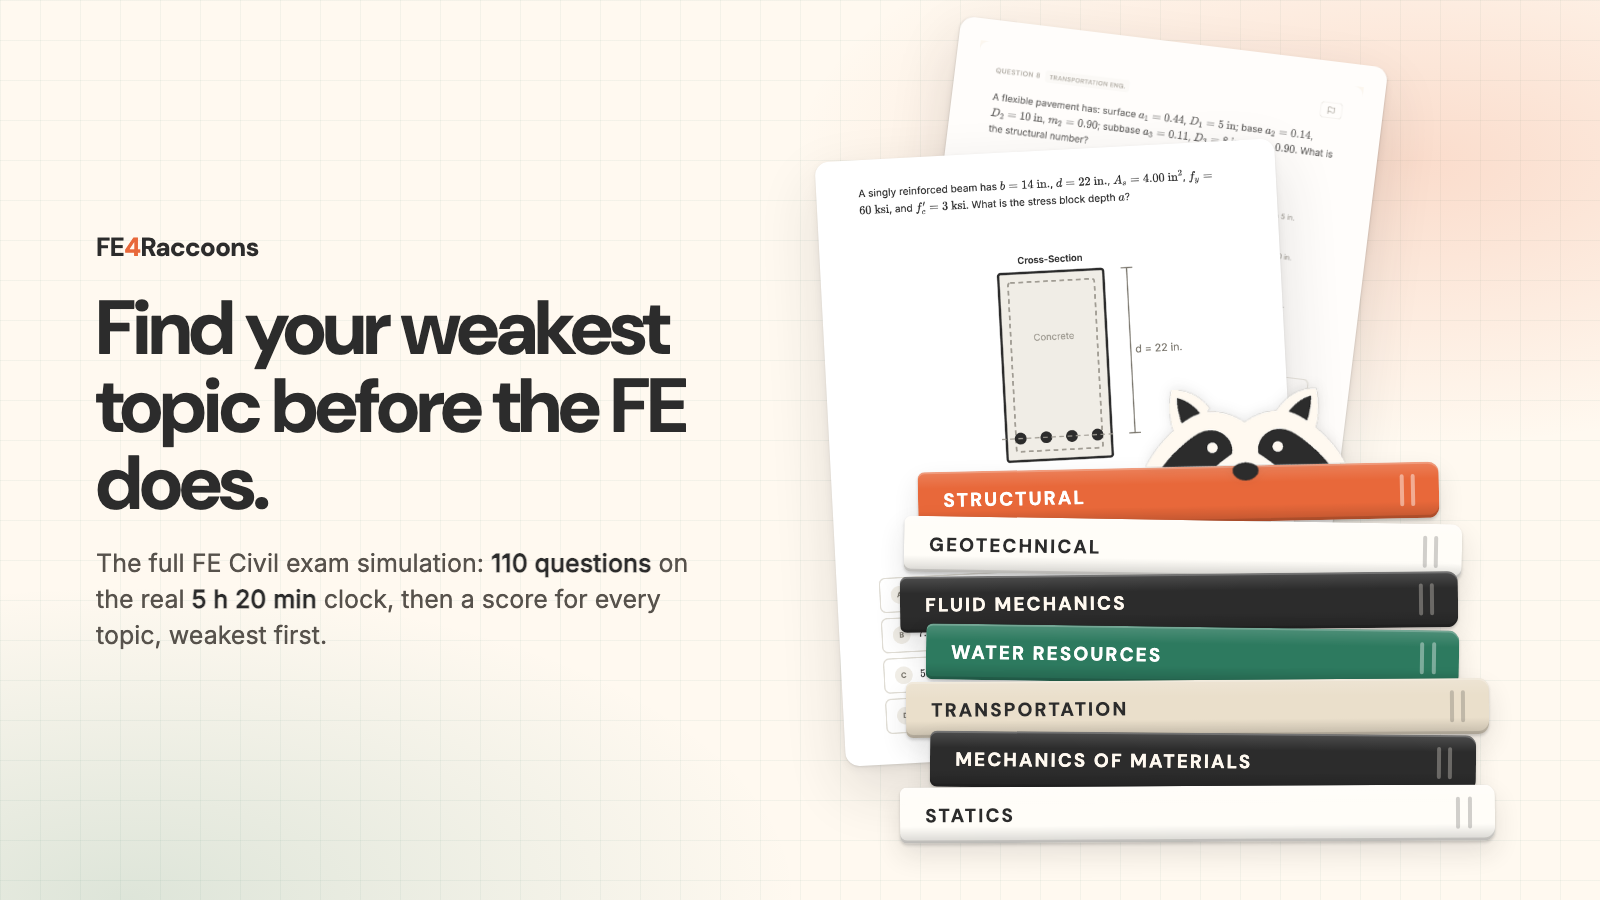
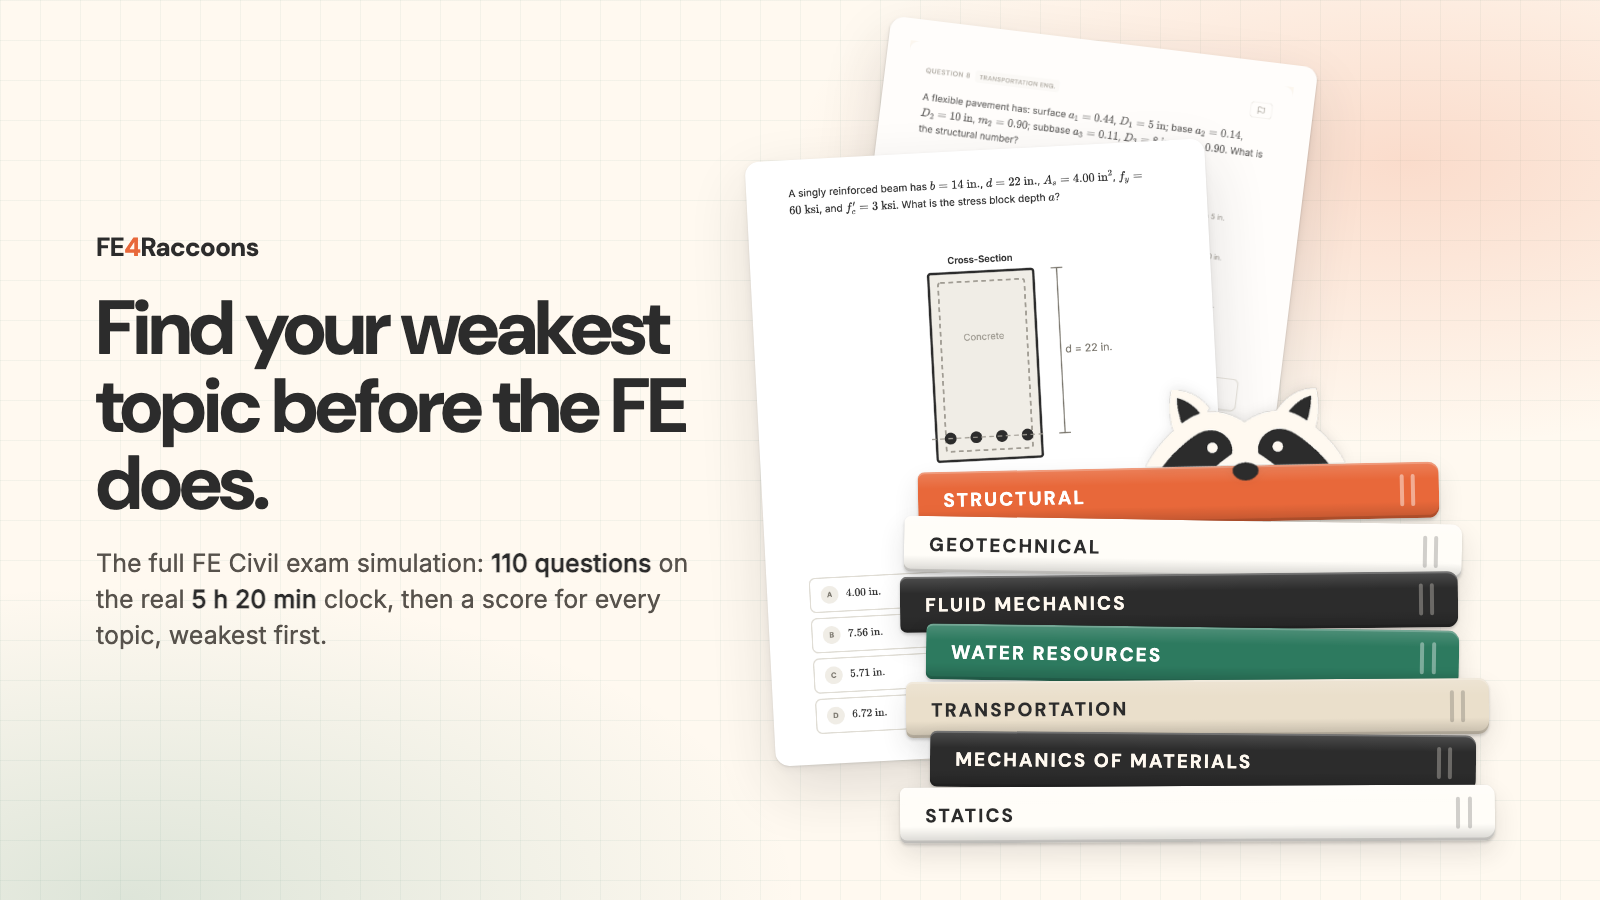
Exam simulation picture: wide version, pages further left

Changed region(s): [[0.5, 0.0311, 0.875, 0.8711], [0.5625, 0.28, 0.7188, 0.5289], [0.7812, 0.4044, 0.8125, 0.4356]]

diff --git a/scripts/sim-image/template.html b/scripts/sim-image/template.html
@@ -153,8 +153,8 @@
   .wide .words { left: 96px; top: 230px; width: 600px; }
   .wide h1 { font-size: 76px; }
   .wide .lead { font-size: 25px; }
-  .wide .p1 { left: 930px; top: 40px; width: 430px; transform: rotate(7deg); }
-  .wide .p2 { left: 830px; top: 150px; width: 460px; transform: rotate(-3deg); }
+  .wide .p1 { left: 860px; top: 40px; width: 430px; transform: rotate(7deg); }
+  .wide .p2 { left: 760px; top: 150px; width: 460px; transform: rotate(-3deg); }
   .wide .stack { left: 900px; top: 470px; width: 620px; --bh: 56px; --bf: 19px; }
   .wide .peek { left: 63%; width: 200px; }
 </style>
